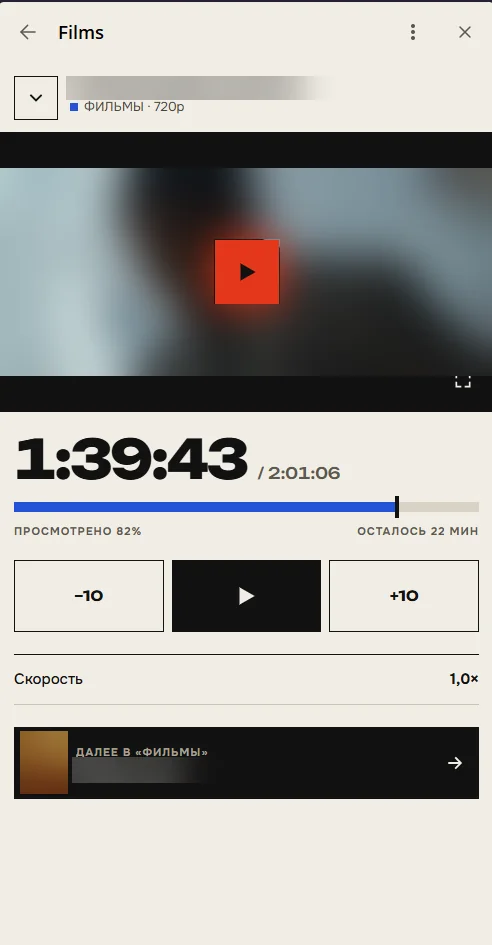
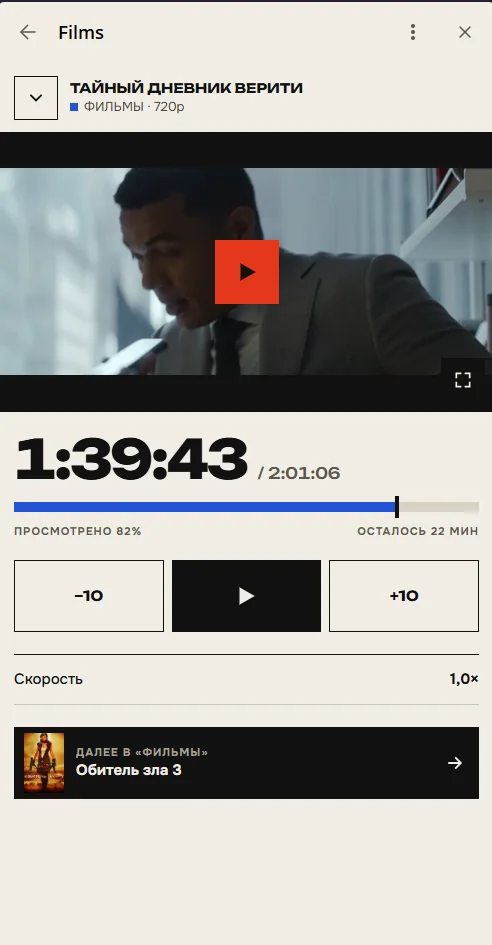
Kinozal: show screenshots without blur

diff --git a/kinozal/index.html b/kinozal/index.html
@@ -72,7 +72,7 @@
 
       <div class="phone-wrap">
         <div class="phone">
-          <div class="screen kz-shot"><img src="shots/home.webp" width="555" height="929" alt="Главный экран Кинозала: надпись «КИНО/ЗАЛ», ряд тем, «Выбор недели» с постерами и раздел «Продолжить» с полосками прогресса, внизу меню. Названия и постеры размыты."></div>
+          <div class="screen kz-shot"><img src="shots/home.webp" width="555" height="929" alt="Главный экран Кинозала: надпись «КИНО/ЗАЛ», ряд тем, «Выбор недели» с постерами и раздел «Продолжить» с полосками прогресса, внизу меню."></div>
         </div>
       </div>
     </div>
@@ -95,7 +95,7 @@
       <div class="kicker">Скриншоты</div>
       <h2 class="h2" id="shots-title">Как выглядит</h2>
     </div>
-    <p>Реальные экраны приложения. Названия, постеры и кадры размыты.</p>
+    <p>Реальные экраны приложения.</p>
   </div>
 
   <ul class="shots">
@@ -109,7 +109,7 @@
   </ul>
 
   <figure class="shot-wide">
-    <img src="shots/player-wide.webp" width="1140" height="532" alt="Плеер на весь экран: перемотка на 10 секунд, пауза, скорость 1,0×, кнопка «Следующий» и полоса прогресса. Кадр размыт." loading="lazy">
+    <img src="shots/player-wide.webp" width="1140" height="532" alt="Плеер на весь экран: перемотка на 10 секунд, пауза, скорость 1,0×, кнопка «Следующий» и полоса прогресса." loading="lazy">
     <figcaption>Плеер на весь экран — перемотка, скорость, следующая серия</figcaption>
   </figure>
 </section>

diff --git a/index.html b/index.html
@@ -74,7 +74,7 @@
 
       <div class="phone-wrap">
         <div class="phone">
-          <div class="screen kz-shot"><img src="kinozal/shots/home.webp" width="555" height="929" alt="Главный экран Кинозала: надпись «КИНО/ЗАЛ», ряд тем, «Выбор недели» с постерами и раздел «Продолжить» с полосками прогресса, внизу меню. Названия и постеры размыты."></div>
+          <div class="screen kz-shot"><img src="kinozal/shots/home.webp" width="555" height="929" alt="Главный экран Кинозала: надпись «КИНО/ЗАЛ», ряд тем, «Выбор недели» с постерами и раздел «Продолжить» с полосками прогресса, внизу меню."></div>
         </div>
       </div>
     </div>
